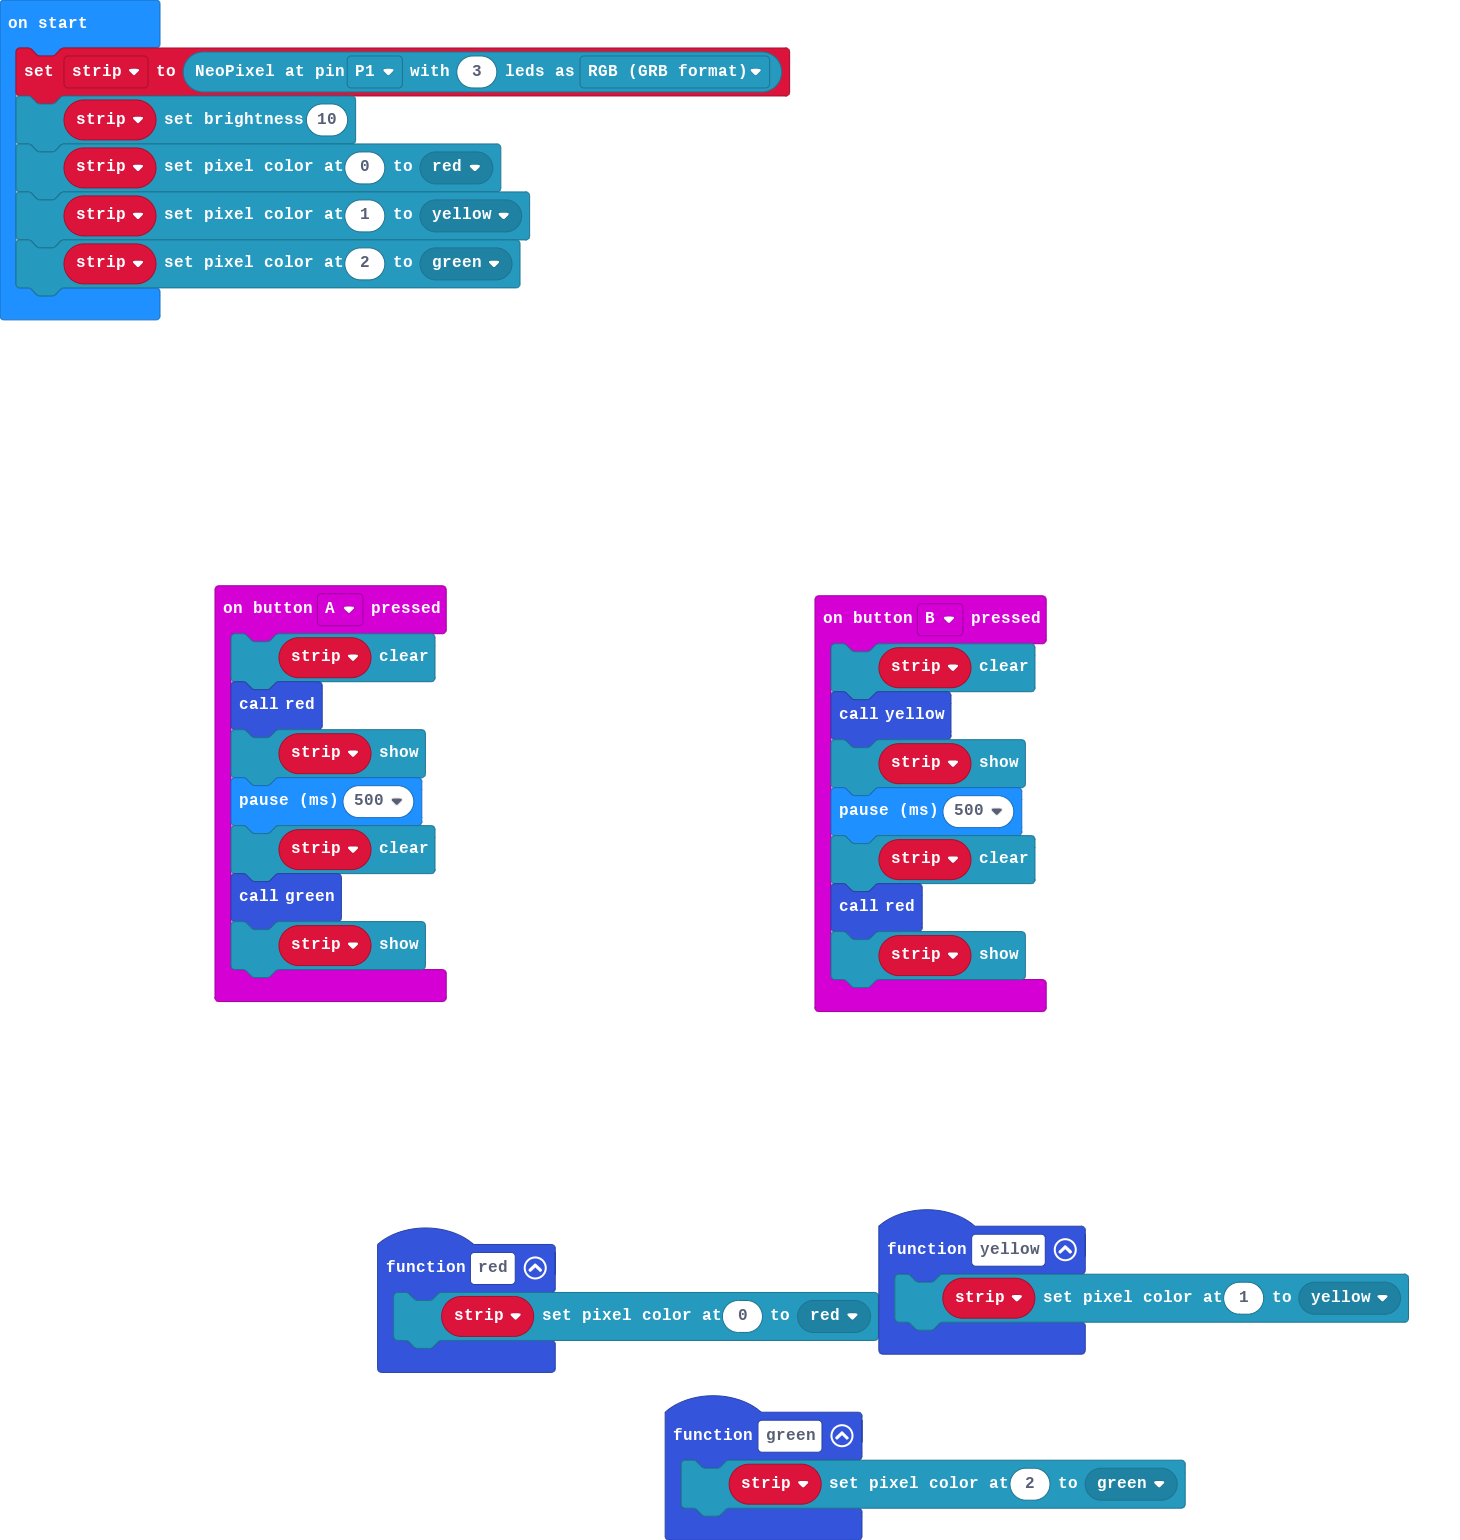
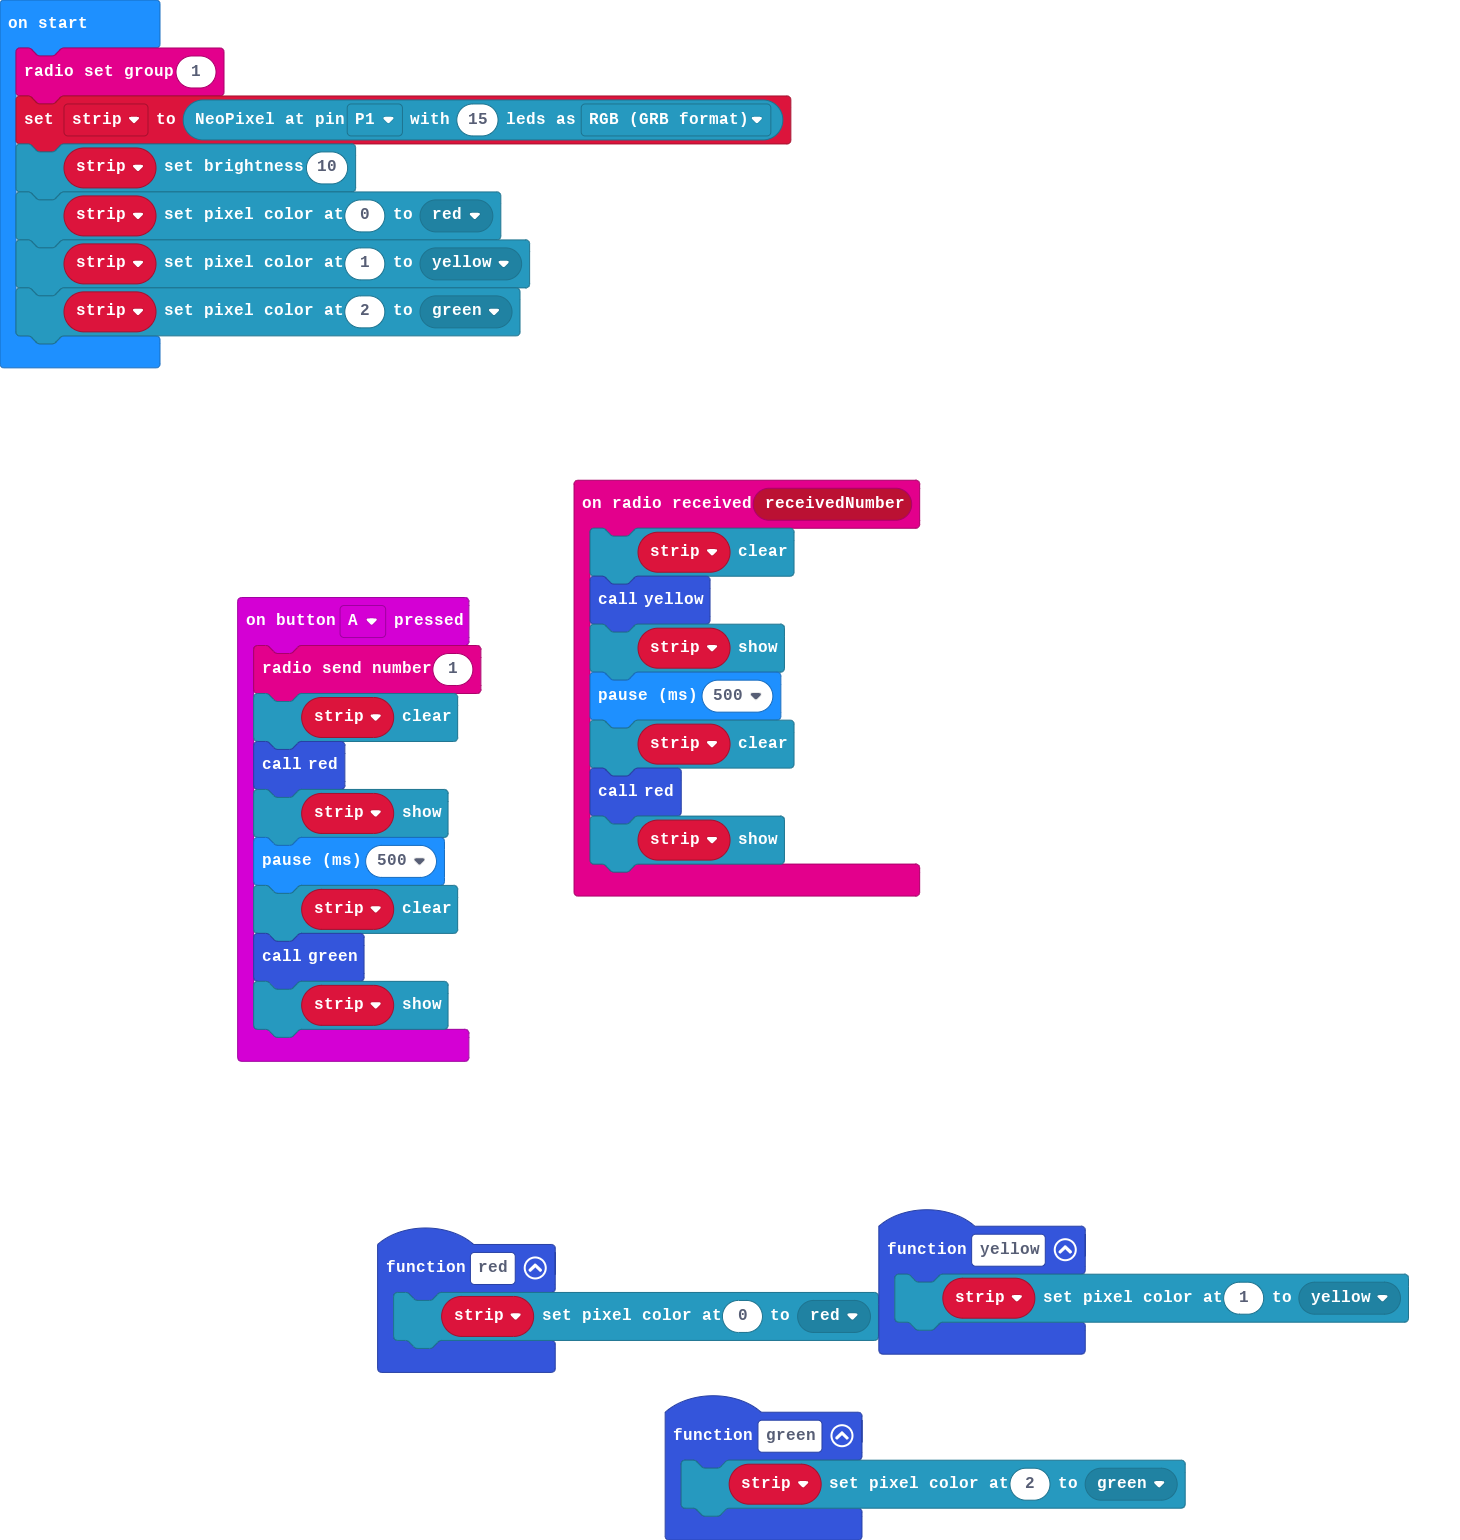
Update main.blocks, main.ts

Changed region(s): [[0.3699, 0.3117, 0.7397, 0.6545], [0.1233, 0.374, 0.339, 0.7169], [0.0, 0.0312, 0.5548, 0.2494]]

diff --git a/main.ts b/main.ts
@@ -1,22 +1,23 @@
-function green () {
-    strip.setPixelColor(2, neopixel.colors(NeoPixelColors.Green))
-}
-input.onButtonPressed(Button.A, function () {
-    strip.clear()
-    red()
-    strip.show()
-    basic.pause(500)
-    strip.clear()
-    green()
-    strip.show()
-})
-input.onButtonPressed(Button.B, function () {
+radio.onReceivedNumber(function (receivedNumber) {
     strip.clear()
     yellow()
     strip.show()
     basic.pause(500)
     strip.clear()
     red()
+    strip.show()
+})
+function green () {
+    strip.setPixelColor(2, neopixel.colors(NeoPixelColors.Green))
+}
+input.onButtonPressed(Button.A, function () {
+    radio.sendNumber(1)
+    strip.clear()
+    red()
+    strip.show()
+    basic.pause(500)
+    strip.clear()
+    green()
     strip.show()
 })
 function yellow () {
@@ -26,7 +27,8 @@ function red () {
     strip.setPixelColor(0, neopixel.colors(NeoPixelColors.Red))
 }
 let strip: neopixel.Strip = null
-strip = neopixel.create(DigitalPin.P1, 3, NeoPixelMode.RGB)
+radio.setGroup(1)
+strip = neopixel.create(DigitalPin.P1, 15, NeoPixelMode.RGB)
 strip.setBrightness(10)
 strip.setPixelColor(0, neopixel.colors(NeoPixelColors.Red))
 strip.setPixelColor(1, neopixel.colors(NeoPixelColors.Yellow))
